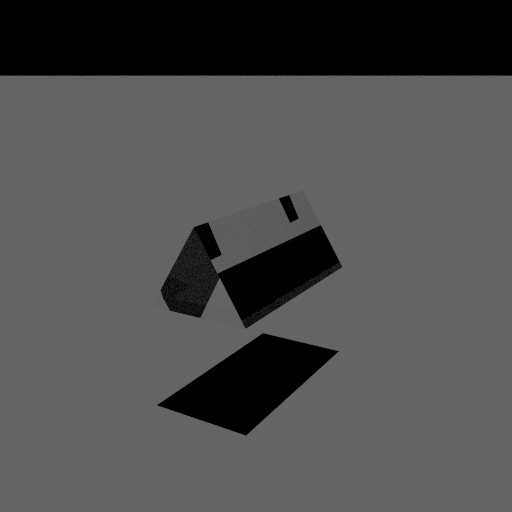
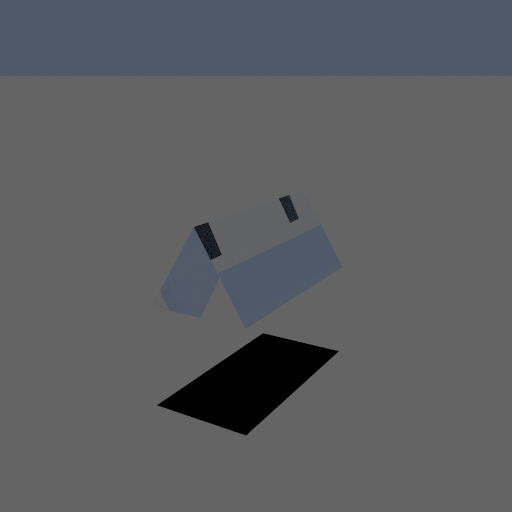
Set default camera background to dark blue

Changed region(s): [[0.0, 0.0, 1.0, 0.1562], [0.3125, 0.375, 0.6875, 0.6562]]

diff --git a/src/scene.rs b/src/scene.rs
@@ -66,12 +66,12 @@ impl Default for Scene {
 }
 
 impl Scene {
-    /// 创建空场景，使用默认相机、黑色背景。
+    /// 创建空场景，使用默认配置中的相机与线性 RGB 背景。
     pub fn new() -> Self {
         let config = SceneConfig::default();
         Self {
             camera: Camera::from_config(&config.camera).expect("内置默认相机参数必须有效"),
-            background_color: Vector3::zeros(),
+            background_color: Vector3::from(config.background_linear_rgb),
             objects: Vec::new(),
             materials: Vec::new(),
             light: ParallelLight {

diff --git a/src/config/sceneconfig.rs b/src/config/sceneconfig.rs
@@ -55,7 +55,7 @@ impl Default for SceneConfig {
     fn default() -> Self {
         Self {
             camera: CameraConfig::default(),
-            background_linear_rgb: [0.0; 3],
+            background_linear_rgb: [0.08, 0.10, 0.14],
             objects: vec![
                 ObjectConfig::Prism {
                     vertices_m: [

diff --git a/ROADMAP.md b/ROADMAP.md
@@ -318,6 +318,7 @@ n(\lambda)=A+\frac{B}{\lambda_{\mu m}^{2}}
 - [x] 保留线性 RGB 的 `1/spp` 平均与八次玻璃散射上限；将单条已知方向的光学测试放到 `trace_camera_path`，像素渲染测试验证随机位置和面积平均。
 - **验证范围：** 子像素与中心坐标、已知投影位置和非方形宽高比、非法偏移/越界、黑白各半像素的线性覆盖率、多样本归一化、固定种子重现、玻璃反射/透射及光源渲染独立性。
 - **验收：** `cargo fmt`、`cargo fmt --check`、`cargo test --locked --quiet`（185 项单元测试、11 项集成测试）、严格 `cargo clippy --locked --all-targets -- -D warnings` 和 diff 检查通过。实际运行 64 SPP 玻璃示例并查看了更新的 512×512 RGB8 PNG；默认 release 渲染成功，其余十一张 PNG 与添加抖动前逐字节一致。
+- **默认背景更新：** 按用户设置将线性 RGB 背景调整为 `[0.08, 0.10, 0.14]`，默认 JSON、`SceneConfig::default` 和 `Scene::new` 保持一致。现有 185 项单元测试、11 项集成测试、格式和严格 Clippy 通过；已重新生成 `camera_glass.png`、`camera_lit.png`，其余十张 PNG 的 SHA-256 保持一致。
 - **范围：** 只做像素区域内的独立均匀采样，不增加镜头景深、运动模糊、分层采样、间接光或透明阴影。有限 SPP 的边缘仍有随机噪声；下一阶段可使用像素内分层采样降低方差。
 
 ## 6. Codex 执行约定

diff --git a/README.md b/README.md
@@ -329,7 +329,7 @@ camera.ray_for_pixel → scene.intersect → scene.material
 
 shadow ray 命中任意表面时 `V = 0`，只将当前直接光照置零；通畅时保留原有 BSDF、光强和余弦项。玻璃和未绑定材质的几何也按不透明遮挡物处理，尚未计算透射率。固定法线偏移可能漏掉距表面小于该偏移的极近遮挡，后续可按场景尺度改善起点偏移。
 
-主光线未命中时使用 `scene.background_linear_rgb`；命中未绑定材质的物体时为黑色。理想玻璃的普通 BSDF 为零，所以默认三棱镜暂为黑色轮廓。本阶段不进行有限孔径裁切、反射/折射、间接光或焦散叠加；阴影不会被背景色照亮。相机光照使用配置曝光，法线调试图继续使用直接 RGB8 法线编码。
+主光线未命中时使用 `scene.background_linear_rgb`，默认线性 RGB 为 `[0.08, 0.10, 0.14]`，输出时统一施加曝光和 sRGB 编码；命中未绑定材质的物体时为黑色。理想玻璃的普通 BSDF 为零，所以直接光照图中的三棱镜为黑色轮廓。本阶段不进行有限孔径裁切、反射/折射、间接光或焦散叠加；阴影不会被背景色照亮。相机光照使用配置曝光，法线调试图继续使用直接 RGB8 法线编码。
 
 ```rust
 use spectral_caustics::render::render_camera_lit;
